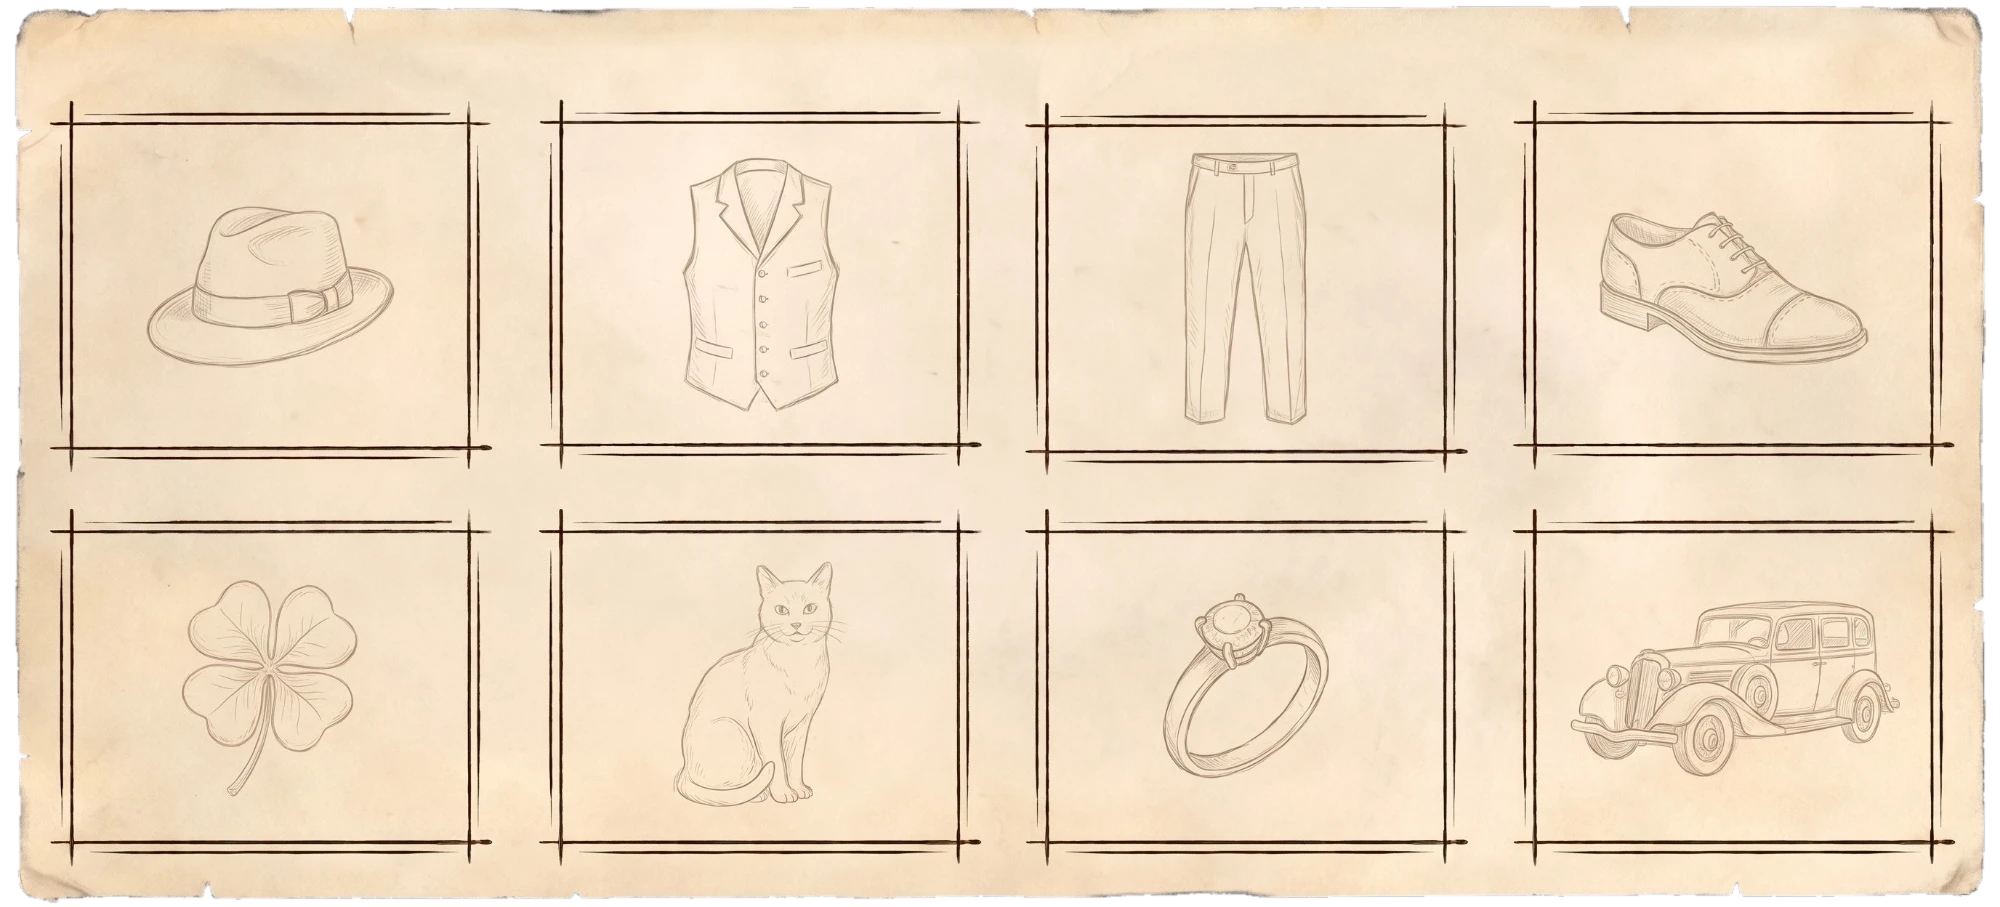
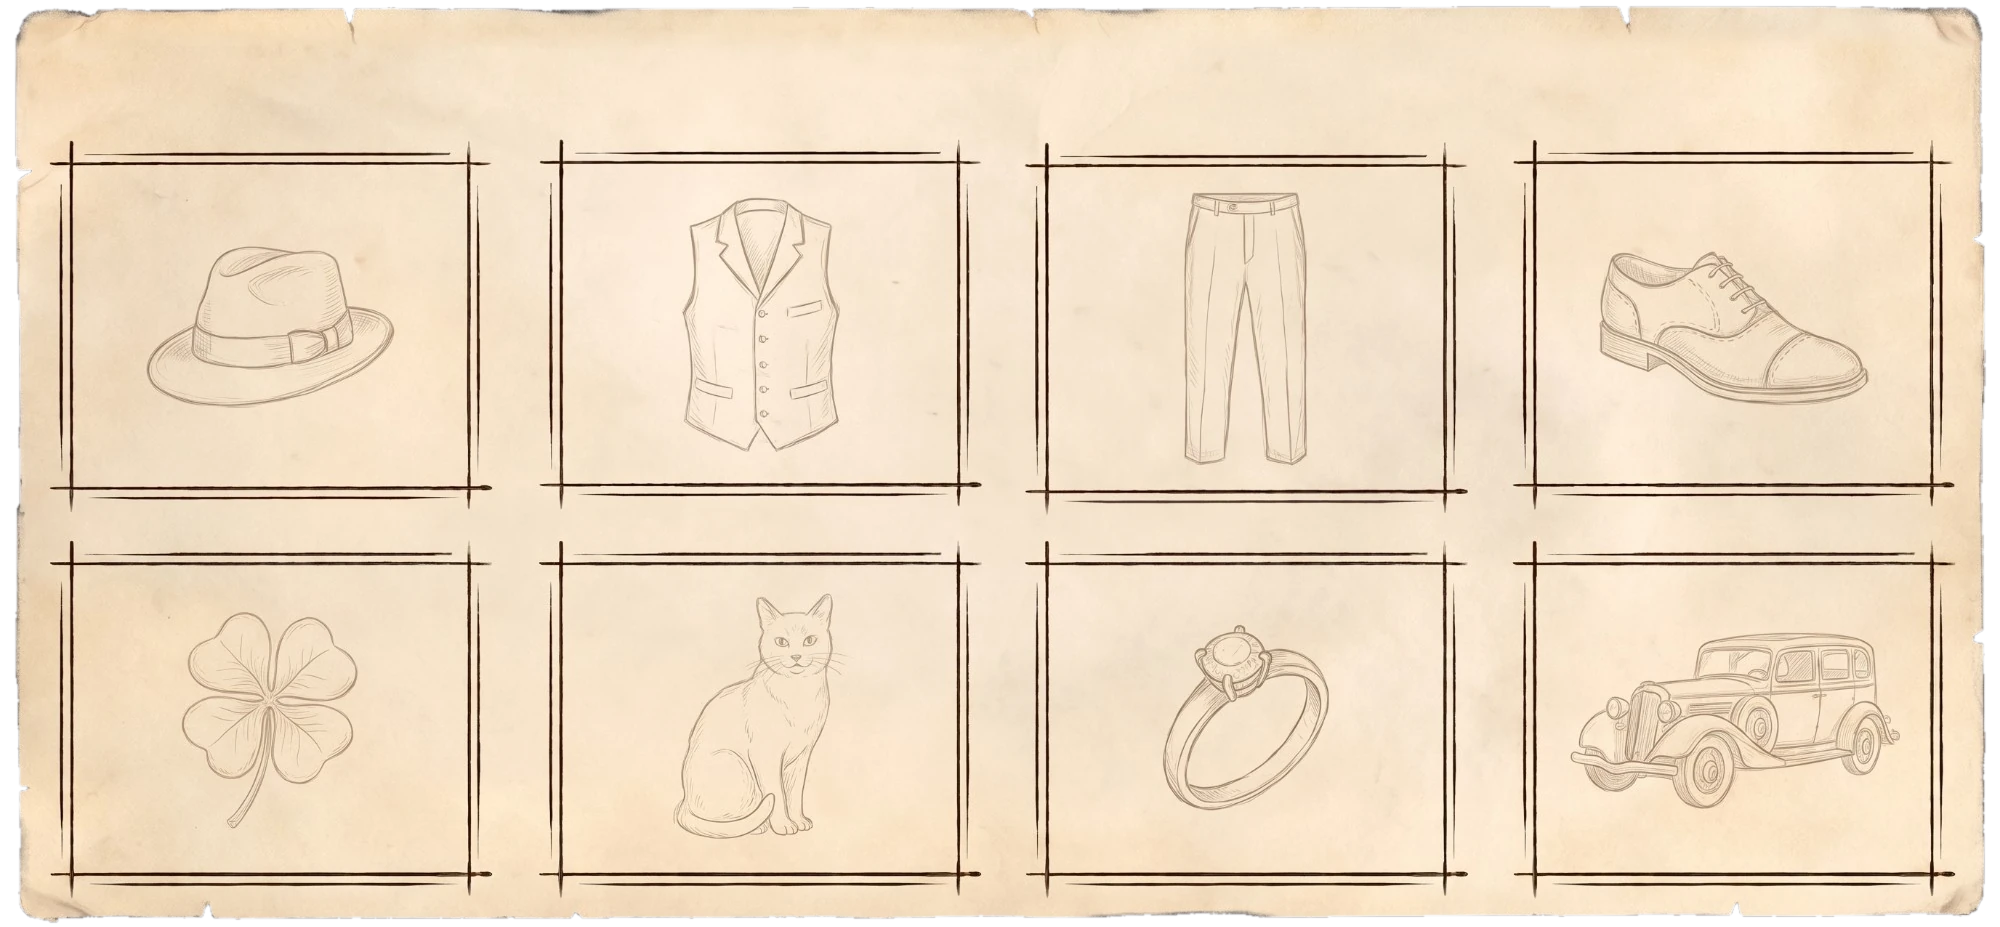
fix: equipamento sem nome nos slots e titulo com mais respiro (R-UI-17)

diff --git a/src/web/style.css b/src/web/style.css
@@ -4495,13 +4495,13 @@ html[data-ui="v2"] #app[data-tab="perfil"] .btn-attr-plus { width: 3.1rem; heigh
 /* ================================================================================================ */
 html[data-ui="v2"] #app[data-tab="perfil"] .profile-gear-panel { position: relative; isolation: isolate; padding: 0; background: none; border: 0; box-shadow: none; overflow: visible; }
 html[data-ui="v2"] #app[data-tab="perfil"] .profile-gear-panel::before { content: ""; position: absolute; inset: 0; z-index: -1; pointer-events: none; background: url("/assets/ficha/b-equipamento.webp") 0 0 / 100% 100% no-repeat; filter: drop-shadow(0 0.25rem 0.45rem rgba(0, 0, 0, 0.5)); }
-html[data-ui="v2"] #app[data-tab="perfil"] .profile-gear-panel .panel-header-banner { position: absolute; top: 0.5rem; left: 1.5rem; margin: 0; padding: 0; border: 0; }
+html[data-ui="v2"] #app[data-tab="perfil"] .profile-gear-panel .panel-header-banner { position: absolute; top: 0.95rem; left: 1.5rem; margin: 0; padding: 0; border: 0; }
 html[data-ui="v2"] #app[data-tab="perfil"] .profile-gear-panel .panel-header-banner h3 { color: #3a2a14; }
 /* as 8 molduras da arte (medidas na imagem: 4 colunas x 2 linhas) */
-html[data-ui="v2"] #app[data-tab="perfil"] .equipped-slots-grid { position: absolute; left: 2.5%; right: 2.25%; top: 11.1%; bottom: 4.9%; display: grid; grid-template-columns: repeat(4, 1fr); grid-template-rows: 40.4fr 39fr; column-gap: 2.35%; row-gap: 4.6%; }
-html[data-ui="v2"] #app[data-tab="perfil"] .gear-slot { position: relative; aspect-ratio: auto; background: none; border: 0; border-radius: 0; outline: 0; justify-content: flex-start; padding: 0.7rem 0.2rem 0.2rem; }
+html[data-ui="v2"] #app[data-tab="perfil"] .equipped-slots-grid { position: absolute; left: 2.5%; right: 2.25%; top: 15.2%; bottom: 3.8%; display: grid; grid-template-columns: repeat(4, 1fr); grid-template-rows: 39.3fr 37.8fr; column-gap: 2.35%; row-gap: 3.9%; }
+html[data-ui="v2"] #app[data-tab="perfil"] .gear-slot { position: relative; aspect-ratio: auto; background: none; border: 0; border-radius: 0; outline: 0; justify-content: center; align-items: center; padding: 0; }
 html[data-ui="v2"] #app[data-tab="perfil"] .gear-slot .gear-ico.ghost { display: none; }
-html[data-ui="v2"] #app[data-tab="perfil"] .gear-slot .slot-badge { color: #7a6a4a; }
+html[data-ui="v2"] #app[data-tab="perfil"] .gear-slot .slot-badge { display: none; }
 /* item equipado: um retalho de papel cobre o desenho fantasma da arte */
 html[data-ui="v2"] #app[data-tab="perfil"] .gear-slot.filled { border: 0; }
 html[data-ui="v2"] #app[data-tab="perfil"] .gear-slot.filled::before { content: ""; position: absolute; inset: 9% 8%; background: #efe2c4; }

diff --git a/tests/unit/fichaNova.test.ts b/tests/unit/fichaNova.test.ts
@@ -210,7 +210,8 @@ describe('Ficha nova em teste (R-FICHA-ARTE-1)', () => {
   it('seção B (equipamento) com a folha de 8 molduras e o desenho fantasma de cada item (R-UI-17)', () => {
     expect(existsSync('public/assets/ficha/b-equipamento.webp')).toBe(true);
     expect(css).toMatch(/\.profile-gear-panel::before \{ content: ""; position: absolute; inset: 0; z-index: -1; pointer-events: none; background: url\("\/assets\/ficha\/b-equipamento\.webp"\) 0 0 \/ 100% 100% no-repeat;/);
-    expect(css).toMatch(/\.equipped-slots-grid \{ position: absolute; left: 2\.5%; right: 2\.25%; top: 11\.1%; bottom: 4\.9%; display: grid; grid-template-columns: repeat\(4, 1fr\); grid-template-rows: 40\.4fr 39fr; column-gap: 2\.35%; row-gap: 4\.6%; \}/);
+    expect(css).toMatch(/\.equipped-slots-grid \{ position: absolute; left: 2\.5%; right: 2\.25%; top: 15\.2%; bottom: 3\.8%; display: grid; grid-template-columns: repeat\(4, 1fr\); grid-template-rows: 39\.3fr 37\.8fr; column-gap: 2\.35%; row-gap: 3\.9%; \}/);
     expect(css).toMatch(/\.gear-slot \.gear-ico\.ghost \{ display: none; \}/);
+    expect(css).toMatch(/\.gear-slot \.slot-badge \{ display: none; \}/);
   });
 });

diff --git a/tools/secaoB_recorte.py b/tools/secaoB_recorte.py
@@ -9,7 +9,7 @@ src = np.array(Image.open("docs/arte/secaoB/original.jpg").convert("RGB")).astyp
 H, W, _ = src.shape
 
 # faixas de papel liso que saem (y0, y1): título muito alto, vão entre as fileiras e margem de baixo
-CUTS = [(50, 207), (640, 668), (1062, 1086)]
+CUTS = [(50, 167), (636, 672), (1058, 1094)]
 FEATHER = 22
 
 

diff --git a/docs/REGRAS_DO_JOGO.md b/docs/REGRAS_DO_JOGO.md
@@ -135,7 +135,7 @@ Observação: com 7 minutos por ponto, uma missão de 15 energia custa 1h45 de e
 | R-UI-14 | **Cash e Ouro com ponto de milhar** | Os números de **Cash e Ouro** no topo aparecem com **ponto de milhar no padrão brasileiro** (ex.: 1.923), sempre em pt-BR, qualquer que seja o idioma do navegador. Por isso o card do Cash passou a 13,5 rem e o do Ouro a 14 rem. Pedido do fundador em 2026-11-13. | `src/web/main.ts` (`updateHUD`), `src/web/style.css` | `tests/unit/fichaNova.test.ts` |
 | R-UI-15 | **Identidade visual da Ficha: "folhas"** | A identidade visual da Ficha é de **folhas de papel envelhecido** (não couro, não fichas/cards). A imagem escolhida (`docs/arte/folha_original.jpg`) é **só a referência de identidade**: **não é o fundo da Ficha**. A arte final da Ficha será gerada pelo fundador a partir dessa identidade, com **apenas a marcação dos lugares dos itens** (equipamento e arma) na folha; o resto é design. **Ainda não aplicada no jogo** (a Ficha segue com os painéis escuros sobre a imagem de Chicago). Decidido pelo fundador em 2026-11-13. | `docs/arte/folha_original.jpg`, `docs/PROMPT_FICHA_IA.md` (v4) | - (sem código) |
 | R-UI-16 | **Seção A da Ficha com a arte de folhas** | O **retrato** (folhas empilhadas com clipe), a **nota do nome com a aba da família**, a **placa de classe e defesa**, a **folha da arma** e o **cartão dos atributos** usam a arte gerada pela IA e escolhida pelo fundador em 2026-11-13 (`public/assets/ficha/a-*.webp`, recortadas de `docs/arte/secaoA/ajustada.png` por `tools/secaoA_recortes.py`). A arte só dá a forma; **todo texto, número, foto e item continuam em código**, nos mesmos tamanhos de antes. A nota fica **atrás** do retrato. O restante da Ficha (equipamento, Mala, área de duelo, barra de abas) **ainda não** usa a identidade de folhas. | `src/web/style.css` (bloco R-UI-16), `public/assets/ficha/a-*.webp` | `tests/unit/fichaNova.test.ts` |
-| R-UI-17 | **Seção B (Equipamento) com a folha de 8 molduras** | O painel de **Equipamento** é uma **folha de papel** gerada por IA e escolhida pelo fundador em 2026-11-13 (`public/assets/ficha/b-equipamento.webp`, preparada por `tools/secaoB_recorte.py`: fundo transparente e faixas de papel liso cortadas para a proporção do painel, sem tocar nas molduras). Tem **8 molduras de tinta** (4 colunas x 2 linhas) com o **desenho fantasma de cada item** (chapéu, colete, calça, calçado, trevo, gato, anel, carro). O código só escreve o título e o nome de cada slot e põe o item equipado; o **item equipado cobre o desenho fantasma com um retalho de papel**. As molduras da arte têm proporção ~1,30:1 (quase 4:3). | `src/web/style.css` (bloco R-UI-17), `public/assets/ficha/b-equipamento.webp` | `tests/unit/fichaNova.test.ts` |
+| R-UI-17 | **Seção B (Equipamento) com a folha de 8 molduras** | O painel de **Equipamento** é uma **folha de papel** gerada por IA e escolhida pelo fundador em 2026-11-13 (`public/assets/ficha/b-equipamento.webp`, preparada por `tools/secaoB_recorte.py`: fundo transparente e faixas de papel liso cortadas para a proporção do painel, sem tocar nas molduras). Tem **8 molduras de tinta** (4 colunas x 2 linhas) com o **desenho fantasma de cada item** (chapéu, colete, calça, calçado, trevo, gato, anel, carro). O código só escreve o título (com respiro em cima e embaixo) e põe o item equipado; **os slots não mostram o nome do tipo de item** (o desenho fantasma já diz qual é); o **item equipado cobre o desenho fantasma com um retalho de papel**. As molduras da arte têm proporção ~1,30:1 (quase 4:3). | `src/web/style.css` (bloco R-UI-17), `public/assets/ficha/b-equipamento.webp` | `tests/unit/fichaNova.test.ts` |
 | R-MALA-11 | **Mala com 4 fileiras desenhadas (a 4ª ainda é só desenho)** | No Estilo 2 a Mala mostra 20 slots (5 x 4): 10 liberados, a fileira 3 trancada (comprável, como em R-MALA-10) e a fileira 4 trancada **só como desenho**, sem compra, porque o máximo real continua 15 e o preço de uma 2ª "mala maior" não foi definido. A área livre do equipamento de duelo tem a mesma altura da Mala (mesma altura da Mala, que tem slots 4:3 e título MALA e painel que tem o mesmo fundo e borda do Equipamento) | **Fundador, 2026-11-12** | `main.ts` (`BAG_DISPLAY_SLOTS`), `style.css` | `fichaNova.test.ts` |
 | R-OURO-3 | **Teto de ouro conferido pelo servidor** | O servidor recusa um save com ouro acima de 25 + 125 por nível acima do 1 + 30 por missão cumprida (o máximo que o jogo pode ter dado). Gastar sempre é aceito | Claude, 2026-11-11 | `src/shared/gold.ts` (`goldCap`), `rules.ts` (`validateSave`) | `gold.test.ts`, `server.test.ts` ("ouro acima do inicial é recusado") |
 | R-OURO-4 | **Compra de ouro com dinheiro real** | Vai existir, mas **ainda não será feita** (depende do pagamento, E-etapas). Quando existir, o teto de R-OURO-3 muda | **Fundador, 2026-11-11** | — (não implementado) | — |
